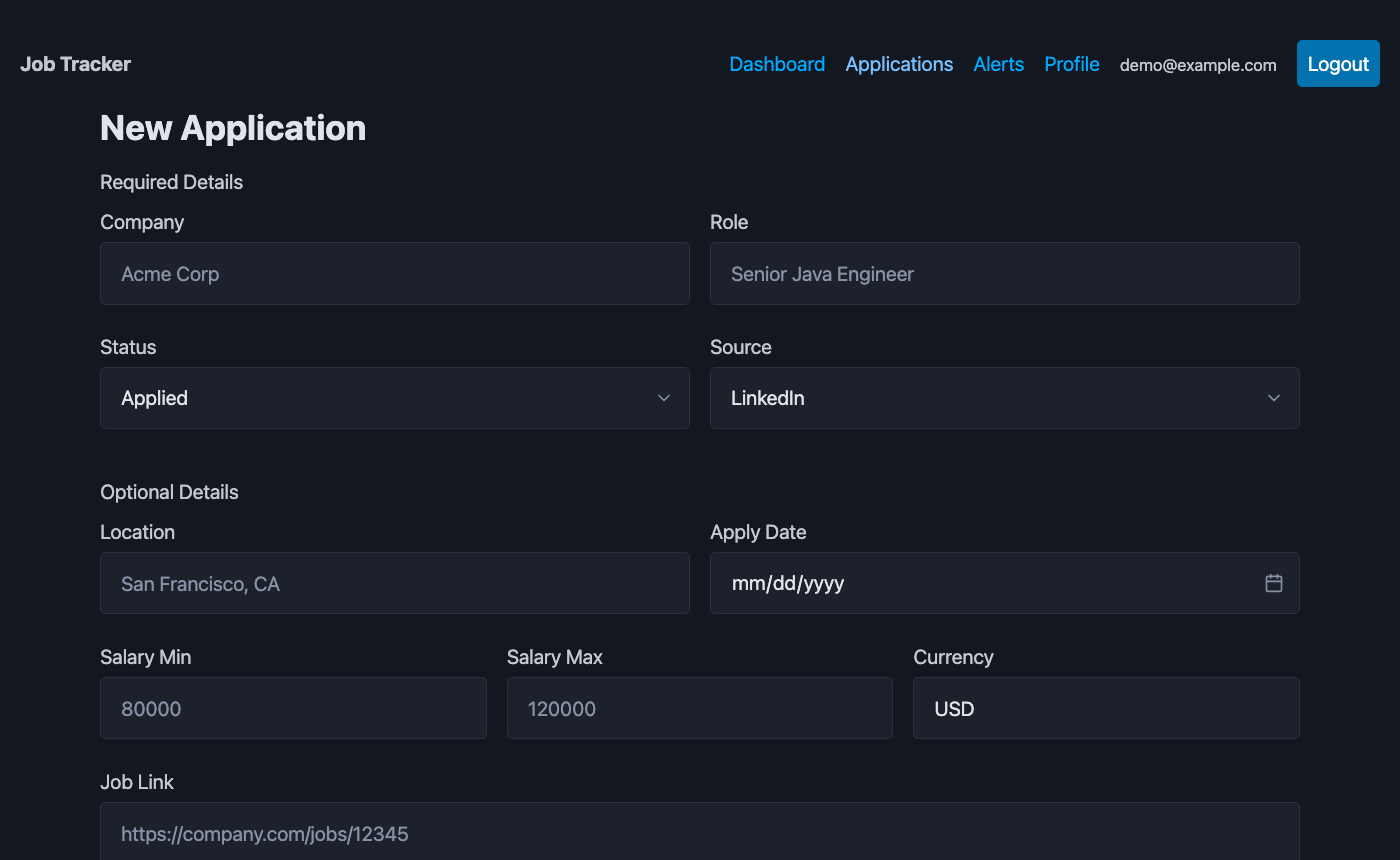
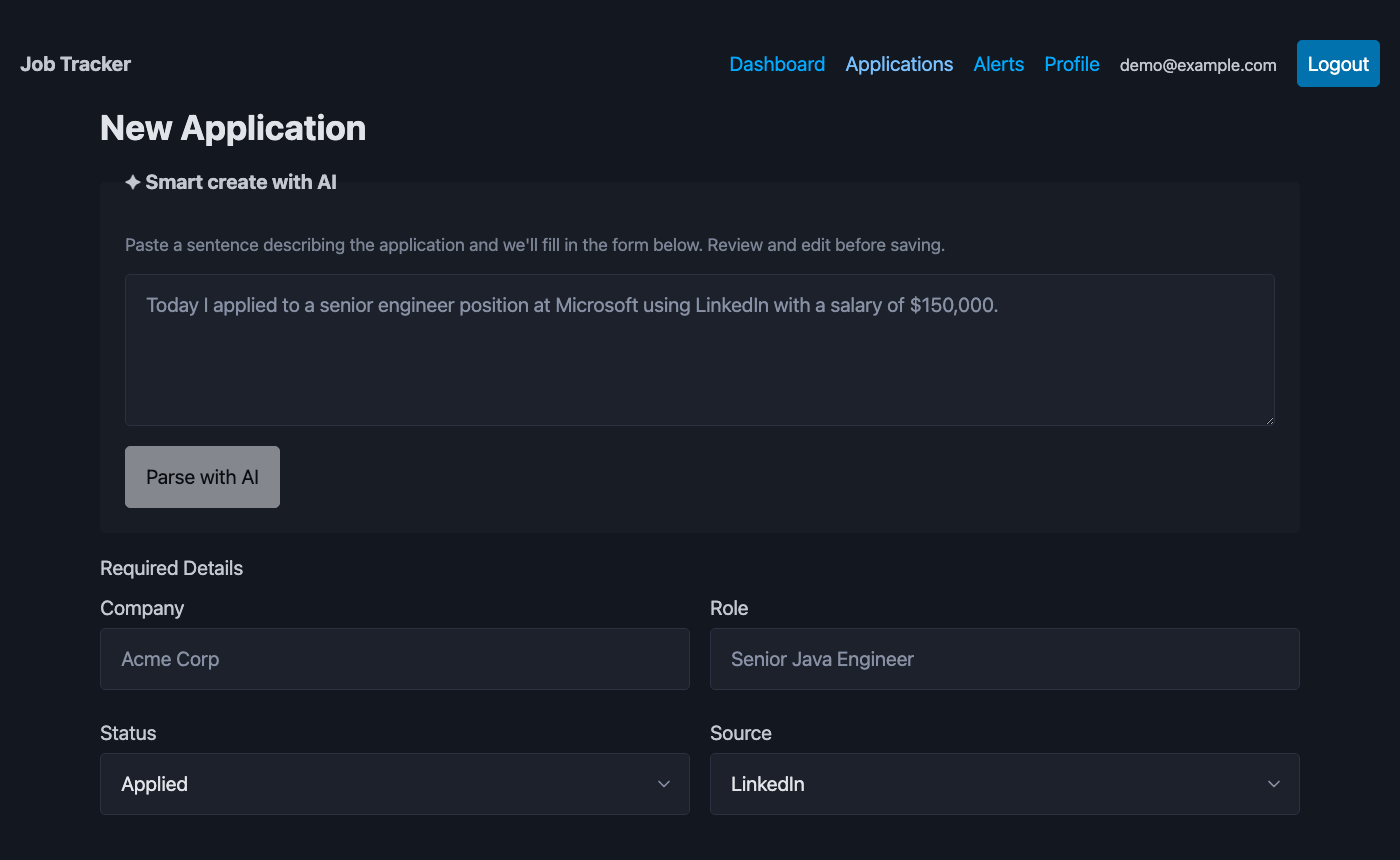
feat: add Smart Create — natural-language application entry via Spring AI
Adds a new POST /v1/ai/applications/parse endpoint in ai-service that
extracts a structured application DTO from a free-text description (e.g.
"Today I applied to a senior engineer position at Microsoft using LinkedIn
with a salary range of $100,000 to $200,000"). The endpoint reuses the
existing Spring AI ChatClient + Ollama stack — no new dependencies — and
performs no persistence: it simply returns the parsed fields so the
frontend can prefill the New Application form for the user to review and
edit before saving via the existing create flow.

Frontend adds a "✦ Smart create with AI" section at the top of
/applications/new with a textarea and Parse button. Parsed fields are
merged non-destructively (never overwrite a value the user has already
typed), the form's existing Save flow is unchanged, and the description
text is preserved so the user can re-parse if needed.

README updated: architecture diagram now lists both AI Service endpoints,
services table describes the parsing role, Features section documents the
new flow, and API Reference includes the new endpoint contract.
Screenshots regenerated via the existing playwright script using the
seeded demo account.

diff --git a/frontend/src/routes/NewApplication.tsx b/frontend/src/routes/NewApplication.tsx
@@ -1,7 +1,8 @@
-import { useState, type FormEvent } from 'react'
+import { useState, useRef, type FormEvent } from 'react'
 import { useNavigate, useLocation } from 'react-router-dom'
 import { createMockApplication, type AppStatus as MockAppStatus } from '../mocks/applications'
-import { createApplication as apiCreate, type AppStatus } from '../api/applications'
+import { createApplication as apiCreate, parseApplicationDescription, type AppStatus } from '../api/applications'
+import axios from 'axios'
 
 const USE_MOCK = (import.meta.env.VITE_USE_MOCK ?? 'true') === 'true'
 
@@ -34,6 +35,67 @@ export default function NewApplication() {
   const [rejectDate, setRejectDate] = useState('')
   const [loginDetails, setLoginDetails] = useState('')
   const [notes, setNotes] = useState('')
+
+  // Smart create state
+  const [description, setDescription] = useState('')
+  const [parsing, setParsing] = useState(false)
+  const [parseError, setParseError] = useState<string | null>(null)
+  const [parseSuccessMsg, setParseSuccessMsg] = useState<string | null>(null)
+  const companyRef = useRef<HTMLInputElement>(null)
+
+  const VALID_STATUSES: AppStatus[] = ['APPLIED', 'PHONE', 'ONSITE', 'OFFER', 'REJECTED', 'ACCEPTED', 'WITHDRAWN']
+
+  async function onParse() {
+    const trimmed = description.trim()
+    if (!trimmed) return
+    setParsing(true)
+    setParseError(null)
+    setParseSuccessMsg(null)
+    try {
+      const parsed = await parseApplicationDescription(trimmed)
+      let applied = 0
+
+      if (parsed.company && !company.trim()) { setCompany(parsed.company); applied++ }
+      if (parsed.role && !role.trim()) { setRole(parsed.role); applied++ }
+      if (parsed.status && VALID_STATUSES.includes(parsed.status as AppStatus) && status === 'APPLIED') {
+        setStatus(parsed.status as AppStatus)
+        applied++
+      }
+      if (parsed.source && !source.trim()) { setSource(parsed.source); applied++ }
+      if (parsed.location && !locationField.trim()) { setLocationField(parsed.location); applied++ }
+      if (parsed.appliedAt && !appliedAt) { setAppliedAt(parsed.appliedAt); applied++ }
+      if (parsed.salaryMin != null && !salaryMin) { setSalaryMin(String(parsed.salaryMin)); applied++ }
+      if (parsed.salaryMax != null && !salaryMax) { setSalaryMax(String(parsed.salaryMax)); applied++ }
+      if (parsed.currency && !currency.trim()) { setCurrency(parsed.currency); applied++ }
+      if (parsed.jobLink && !jobLink.trim()) { setJobLink(parsed.jobLink); applied++ }
+      if (parsed.notes && !notes.trim()) { setNotes(parsed.notes); applied++ }
+      // TODO: tags — no tag input exists in the form yet; extracted tags are ignored until the form gains a tags field.
+
+      setParseSuccessMsg(
+        applied > 0
+          ? `Filled in ${applied} field${applied === 1 ? '' : 's'} below — review and save.`
+          : 'No new fields were extracted — fill the form manually.'
+      )
+
+      if (applied > 0) {
+        companyRef.current?.focus()
+      }
+    } catch (err: unknown) {
+      if (axios.isAxiosError(err)) {
+        const httpStatus = err.response?.status
+        if (httpStatus === 400) {
+          const msg = (err.response?.data as { message?: string })?.message
+          setParseError(msg ?? 'Invalid description — please check your input.')
+        } else {
+          setParseError("Couldn't parse — please fill the form manually.")
+        }
+      } else {
+        setParseError("Couldn't parse — please fill the form manually.")
+      }
+    } finally {
+      setParsing(false)
+    }
+  }
 
   const [submitting, setSubmitting] = useState(false)
   const [error, setError] = useState<string | null>(null)
@@ -94,12 +156,50 @@ export default function NewApplication() {
         </article>
       )}
       <form onSubmit={onSubmit}>
+        <fieldset style={{ background: 'var(--pico-card-background-color)', borderRadius: 'var(--pico-border-radius)', padding: '1.25rem', marginBottom: '1rem' }}>
+          <legend><strong>✦ Smart create with AI</strong></legend>
+          <p style={{ marginBottom: '0.75rem', color: 'var(--pico-muted-color)', fontSize: '0.875rem' }}>
+            Paste a sentence describing the application and we'll fill in the form below. Review and edit before saving.
+          </p>
+          <label>
+            <textarea
+              value={description}
+              onChange={e => setDescription(e.target.value)}
+              placeholder='Today I applied to a senior engineer position at Microsoft using LinkedIn with a salary of $150,000.'
+              rows={4}
+              style={{ resize: 'vertical' }}
+            />
+          </label>
+          <div style={{ display: 'flex', alignItems: 'center', gap: '0.75rem', flexWrap: 'wrap', marginTop: '0.25rem' }}>
+            <button
+              type="button"
+              className="contrast"
+              style={{ marginBottom: 0, flex: '0 0 auto' }}
+              disabled={!description.trim() || parsing}
+              aria-busy={parsing}
+              onClick={onParse}
+            >
+              {parsing ? 'Parsing…' : 'Parse with AI'}
+            </button>
+            {parsing && (
+              <small aria-live="polite" style={{ color: 'var(--pico-muted-color)' }}>Parsing your description…</small>
+            )}
+            {!parsing && parseError && (
+              <small role="alert" style={{ color: 'var(--pico-del-color, #ef4444)' }}>{parseError}</small>
+            )}
+            {!parsing && parseSuccessMsg && !parseError && (
+              <small aria-live="polite" style={{ color: 'var(--pico-ins-color, #22c55e)' }}>✓ {parseSuccessMsg}</small>
+            )}
+          </div>
+        </fieldset>
+
         <fieldset>
           <legend>Required Details</legend>
           <div className="grid">
             <label>
               Company
               <input
+                ref={companyRef}
                 value={company}
                 onChange={e => setCompany(e.target.value)}
                 placeholder="Acme Corp"

diff --git a/frontend/src/api/applications.ts b/frontend/src/api/applications.ts
@@ -145,3 +145,24 @@ export async function importFolder(): Promise<FolderImportResult> {
   const res = await httpApps.post<FolderImportResult>('/applications/import-folder')
   return res.data
 }
+
+export interface ParsedApplication {
+  company?: string
+  role?: string
+  status?: AppStatus | string
+  source?: string
+  location?: string
+  salaryMin?: number
+  salaryMax?: number
+  currency?: string
+  appliedAt?: string
+  nextFollowUpOn?: string | null
+  jobLink?: string | null
+  tags?: string[]
+  notes?: string | null
+}
+
+export async function parseApplicationDescription(description: string): Promise<ParsedApplication> {
+  const res = await httpApps.post<ParsedApplication>('/ai/applications/parse', { description })
+  return res.data
+}

diff --git a/backend/ai-service/src/main/java/com/jobtracker/ai/service/ApplicationParserService.java b/backend/ai-service/src/main/java/com/jobtracker/ai/service/ApplicationParserService.java
@@ -1,0 +1,84 @@
+package com.jobtracker.ai.service;
+
+import com.fasterxml.jackson.databind.ObjectMapper;
+import com.fasterxml.jackson.databind.SerializationFeature;
+import com.fasterxml.jackson.datatype.jsr310.JavaTimeModule;
+import com.jobtracker.ai.api.dto.ParsedApplicationDto;
+import org.slf4j.Logger;
+import org.slf4j.LoggerFactory;
+import org.springframework.ai.chat.client.ChatClient;
+import org.springframework.stereotype.Service;
+
+import java.time.LocalDate;
+
+@Service
+public class ApplicationParserService {
+
+    private static final Logger log = LoggerFactory.getLogger(ApplicationParserService.class);
+
+    private static final String PROMPT_TEMPLATE = """
+            You are extracting structured job-application data from a plain-text description.
+            Today's date is {today}.
+
+            Return ONLY a JSON object with no markdown fences and no commentary.
+            Omit any field you cannot confidently extract — do not guess.
+
+            Fields and rules:
+            - company      (string) — the employer name
+            - role         (string) — the job title
+            - status       (string) — one of exactly: APPLIED, PHONE, ONSITE, OFFER, REJECTED, ACCEPTED, WITHDRAWN.
+                           Default to APPLIED if the description implies a fresh application.
+            - source       (string) — e.g. "LinkedIn", "Referral", "Indeed", "Company website"
+            - location     (string) — city, region, or "Remote"
+            - salaryMin    (number) — strip $ and commas, expand k/K to thousands (100k → 100000).
+                           If a single salary number is given, set both salaryMin and salaryMax to it.
+                           If only "up to X" is given, set only salaryMax. If only "starting at X", set only salaryMin.
+            - salaryMax    (number) — see salaryMin rules
+            - currency     (string) — 3-letter ISO code; default "USD" when a $ salary is present
+            - appliedAt    (string, ISO date YYYY-MM-DD) — resolve relative dates ("today", "yesterday", "last Monday") against today's date
+            - nextFollowUpOn (string, ISO date YYYY-MM-DD) — only if explicitly mentioned
+            - jobLink      (string) — URL if present
+            - tags         (array of strings) — explicit skills/keywords/tags mentioned by the user
+            - notes        (string) — free-form context that does not fit any other field
+
+            Description:
+            {description}
+            """;
+
+    private final ChatClient chatClient;
+    private final ObjectMapper objectMapper;
+
+    public ApplicationParserService(ChatClient chatClient) {
+        this.chatClient = chatClient;
+        this.objectMapper = new ObjectMapper()
+                .registerModule(new JavaTimeModule())
+                .disable(SerializationFeature.WRITE_DATES_AS_TIMESTAMPS);
+    }
+
+    public ParsedApplicationDto parse(String description) {
+        String today = LocalDate.now().toString();
+
+        String content = chatClient.prompt()
+                .user(u -> u.text(PROMPT_TEMPLATE)
+                        .param("today", today)
+                        .param("description", description))
+                .call()
+                .content();
+
+        try {
+            int start = content.indexOf('{');
+            int end = content.lastIndexOf('}');
+            if (start == -1 || end == -1 || end <= start) {
+                throw new IllegalArgumentException("No JSON object found in LLM response");
+            }
+            String json = content.substring(start, end + 1);
+            ParsedApplicationDto result = objectMapper.readValue(json, ParsedApplicationDto.class);
+            log.info("Parsed application: company={}, role={}", result.company(), result.role());
+            return result;
+        } catch (Exception e) {
+            String truncated = content.length() > 500 ? content.substring(0, 500) : content;
+            log.warn("Failed to parse LLM response: {}", truncated);
+            throw e instanceof RuntimeException re ? re : new RuntimeException(e);
+        }
+    }
+}

diff --git a/backend/ai-service/src/main/java/com/jobtracker/ai/api/ApplicationParserController.java b/backend/ai-service/src/main/java/com/jobtracker/ai/api/ApplicationParserController.java
@@ -1,0 +1,52 @@
+package com.jobtracker.ai.api;
+
+import com.jobtracker.ai.api.dto.ParseApplicationRequest;
+import com.jobtracker.ai.api.dto.ParsedApplicationDto;
+import com.jobtracker.ai.service.ApplicationParserService;
+import jakarta.validation.Valid;
+import org.slf4j.Logger;
+import org.slf4j.LoggerFactory;
+import org.springframework.http.HttpStatus;
+import org.springframework.security.core.Authentication;
+import org.springframework.security.core.context.SecurityContextHolder;
+import org.springframework.security.oauth2.jwt.Jwt;
+import org.springframework.web.bind.annotation.PostMapping;
+import org.springframework.web.bind.annotation.RequestBody;
+import org.springframework.web.bind.annotation.RequestMapping;
+import org.springframework.web.bind.annotation.RestController;
+import org.springframework.web.server.ResponseStatusException;
+
+import java.util.UUID;
+
+@RestController
+@RequestMapping("/v1/ai")
+public class ApplicationParserController {
+
+    private static final Logger log = LoggerFactory.getLogger(ApplicationParserController.class);
+
+    private final ApplicationParserService applicationParserService;
+
+    public ApplicationParserController(ApplicationParserService applicationParserService) {
+        this.applicationParserService = applicationParserService;
+    }
+
+    @PostMapping("/applications/parse")
+    public ParsedApplicationDto parse(@Valid @RequestBody ParseApplicationRequest request) {
+        currentUserId();
+        try {
+            return applicationParserService.parse(request.description());
+        } catch (Exception e) {
+            log.error("Failed to parse application description", e);
+            throw new ResponseStatusException(HttpStatus.BAD_GATEWAY, "Failed to parse description");
+        }
+    }
+
+    private UUID currentUserId() {
+        Authentication auth = SecurityContextHolder.getContext().getAuthentication();
+        if (auth != null && auth.getPrincipal() instanceof Jwt jwt) {
+            String sub = jwt.getSubject();
+            if (sub != null) return UUID.fromString(sub);
+        }
+        throw new IllegalStateException("No authenticated user");
+    }
+}

diff --git a/backend/ai-service/src/main/java/com/jobtracker/ai/api/dto/ParsedApplicationDto.java b/backend/ai-service/src/main/java/com/jobtracker/ai/api/dto/ParsedApplicationDto.java
@@ -1,0 +1,24 @@
+package com.jobtracker.ai.api.dto;
+
+import com.fasterxml.jackson.annotation.JsonInclude;
+
+import java.math.BigDecimal;
+import java.time.LocalDate;
+import java.util.List;
+
+@JsonInclude(JsonInclude.Include.NON_NULL)
+public record ParsedApplicationDto(
+        String company,
+        String role,
+        String status,
+        String source,
+        String location,
+        BigDecimal salaryMin,
+        BigDecimal salaryMax,
+        String currency,
+        LocalDate appliedAt,
+        LocalDate nextFollowUpOn,
+        String jobLink,
+        List<String> tags,
+        String notes
+) {}

diff --git a/backend/ai-service/src/main/java/com/jobtracker/ai/api/dto/ParseApplicationRequest.java b/backend/ai-service/src/main/java/com/jobtracker/ai/api/dto/ParseApplicationRequest.java
@@ -1,0 +1,8 @@
+package com.jobtracker.ai.api.dto;
+
+import jakarta.validation.constraints.NotBlank;
+import jakarta.validation.constraints.Size;
+
+public record ParseApplicationRequest(
+        @NotBlank @Size(max = 4000) String description
+) {}

diff --git a/README.md b/README.md
@@ -109,7 +109,10 @@ JobTracker follows an **event-driven CQRS-like pattern** — writes and reads ar
                          │    │   AI Service  :8085   │  │   Config Server     │  │
                          │    │  Spring AI ChatClient │  │      :8888          │  │
                          │    │  POST /v1/ai/insights │  │  Spring Cloud Config│  │
-                         │    └──────────┬────────────┘  └─────────────────────┘  │
+                         │    │  POST /v1/ai/         │  └─────────────────────┘  │
+                         │    │       applications/   │                            │
+                         │    │       parse  (NL→DTO) │                            │
+                         │    └──────────┬────────────┘                            │
                          │               │                                         │
                          │    ┌──────────▼────────────┐                            │
                          │    │   Ollama  :11434      │                            │
@@ -137,7 +140,7 @@ JobTracker follows an **event-driven CQRS-like pattern** — writes and reads ar
 | **applications-service** | 8081 | Write service — REST CRUD, JPA + Hibernate, publishes Kafka events |
 | **stats-service** | 8082 | Read service — analytics from pre-computed agg tables, Redis-cached; serves activity feed |
 | **stats-listener** | 8083 | Kafka consumer — two groups: `stats-service` (snapshot/agg) + `activity-service` (activity feed) |
-| **ai-service** | 8085 | LLM-backed insights service — Spring AI `ChatClient` against Ollama; pulls per-user analytics from stats-service via HTTP and forwards the JWT |
+| **ai-service** | 8085 | LLM-backed AI service — Spring AI `ChatClient` against Ollama. Powers two endpoints: dashboard insights (pulls per-user analytics from stats-service, forwards the JWT) and natural-language application parsing (`POST /v1/ai/applications/parse` — extracts a structured DTO from a free-text description, no persistence) |
 | **config-server** | 8888 | Centralized config for all services (Spring Cloud Config) |
 | **PostgreSQL** | 5432 | Two databases: `jt_apps` (write) and `jt_stats` (read) |
 | **Kafka** | 9092 | KRaft mode, topic: `application-events`, two consumer groups |
@@ -172,6 +175,7 @@ This is the **Transactional Outbox Pattern** — Kafka being down never causes d
 - **Advanced filtering** — Filter applications by status, search (company/role), month, year, and call received; sort by apply date or date added; page-based pagination (20 per page)
 - **Activity Feed** — Each Application Detail page shows a live activity timeline. Every create, status update, and deletion is translated into a human-readable message (e.g. "Applied for SWE at Google via LinkedIn", "Status changed to OFFER") and stored in the `activity_feed` table. Powered by Kafka fan-out: a second consumer group (`activity-service`) runs in `stats-listener` alongside the existing `stats-service` group, tracking independent offsets on the same `application-events` topic — no producer changes required. Idempotent via a unique constraint on `(app_id, event_type, occurred_at)`
 - **AI Insights** — The Dashboard includes an "AI Insights" card powered by a locally-running LLM (Ollama + `qwen2.5:1.5b`). A dedicated **`ai-service`** (port 8085) handles the LLM round-trip using Spring AI's `ChatClient` abstraction — it pulls per-user analytics from `stats-service` via the gateway (forwarding the caller's JWT), stuffs them into a prompt template, and asks the model for 3–5 concise, actionable coaching insights. Endpoint: `POST /v1/ai/insights`. Fully offline — no API key required
+- **Smart Create (Natural-Language Application Entry)** — On the New Application page, a "✦ Smart create with AI" section accepts a free-text sentence like *"Today I applied to a senior engineer position at Microsoft using LinkedIn with a salary range of $100,000 to $200,000"* and extracts a structured DTO (company, role, status, source, salary range, currency, applied date, location, job link, tags, notes). The same `ai-service` handles the parsing: `POST /v1/ai/applications/parse` returns parsed fields **without persisting** so the user can review and edit the form before saving via the existing create flow. The frontend merges parsed values non-destructively (never overwrites a field the user has already typed). Built on the same Spring AI `ChatClient` + Ollama stack as AI Insights — fully offline, no API key
 - **Analytics Dashboard** — By Month / By Year toggle with grouped Applied vs Rejected bar chart, summary table, 7 open-window KPI cards (last 7d / 15d / 30d / 3mo / 6mo / 9mo / 1yr), and a **Top Companies** widget ranking the top 10 companies by application count with a relative fill bar for quick visual comparison
 - **Pre-computed aggregate tables** — `agg_monthly` and `agg_weekly` in `jt_stats` are maintained in-sync by stats-listener (recomputed atomically on every Kafka event); stats-service reads from these tables with indexed scans instead of live GROUP BY on the raw snapshot
 - **Redis caching** — All three stats endpoints (`/summary`, `/trend`, `/breakdown`) are cached in Redis with a 5-minute TTL, keyed per-user; the stats-listener evicts the affected user's cache keys immediately after processing each Kafka event, so the dashboard always reflects the latest data
@@ -266,6 +270,21 @@ Response: { insights: ["...", "...", "..."], generatedAt }
 # New Spring AI implementation served by ai-service. Aggregates summary, 12-week trend,
 # current-year monthly breakdown, and role distribution by calling stats-service over HTTP
 # (auth header is forwarded), then asks Ollama via ChatClient for 3-5 insights
+
+POST /v1/ai/applications/parse
+Body:     { "description": "Today I applied to a senior engineer position at Microsoft using LinkedIn with a salary range of $100,000 to $200,000" }
+Response: 200 {
+  company?: string, role?: string, status?: AppStatus,
+  source?: string, location?: string,
+  salaryMin?: number, salaryMax?: number, currency?: string,
+  appliedAt?: string, nextFollowUpOn?: string,
+  jobLink?: string, tags?: string[], notes?: string
+}
+# Returns a structured DTO extracted from a free-text description. NO persistence — the
+# frontend uses this to prefill the New Application form so the user can review/edit
+# before saving via POST /v1/applications. Fields the model cannot confidently extract
+# are simply omitted. 400 on blank/oversized input, 502 if the LLM call fails or
+# returns unparseable JSON.
 
 GET /v1/stats/activity/{appId}
 Response: [{ id, eventType, message, occurredAt }]
